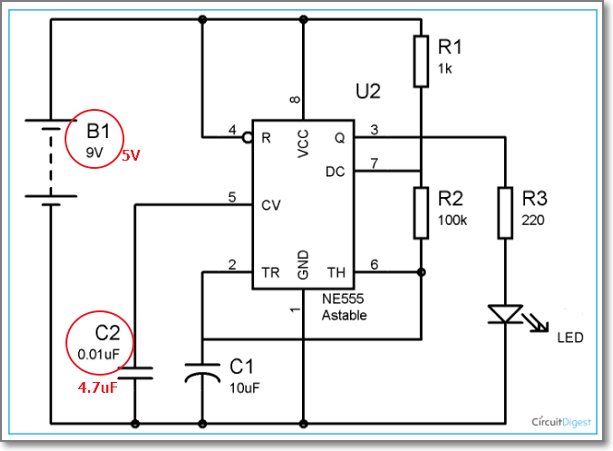
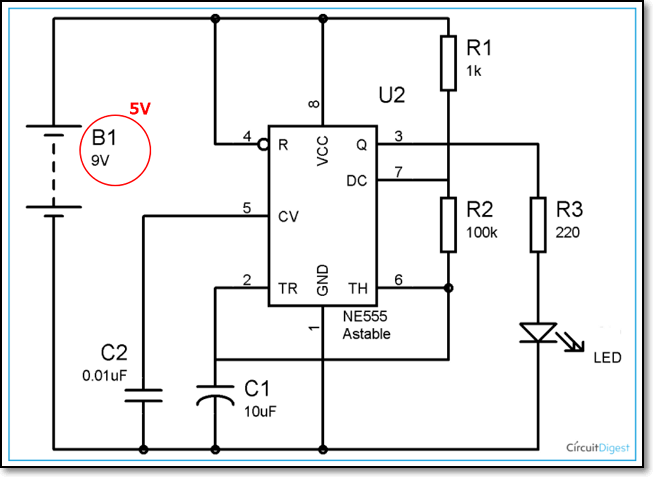
added breadboard simulation

Changed region(s): [[0.0, 0.0, 0.9918, 0.9933], [0.5579, 0.1863, 0.6199, 0.2173]]

diff --git a/Electronics/stepbystep_breadboarding.md b/Electronics/stepbystep_breadboarding.md
@@ -1,0 +1,89 @@
+## Breadboarding the AStable - A Step-by-Step guide
+
+This is a step-by-step guide to connecting and simulating an astable circuit using TinkderCAD.  At the end of the exercise, you should be able to simulate the operations of a Astable Multivibrator using TinkerCAD
+
+**Requirements**
+
+1.  TinkerCAD/AutoDesk Account
+2.  Online [TinkerCAD circuits](https://www.tinkercad.com) program
+
+**Circuit Diagram**
+
+You can read about the operations of the Astable Multivibrator from the article by Circuit Digest : [555 Timer Astable Multivibrator Circuit](https://circuitdigest.com/electronic-circuits/555-timer-astable-multivibrator-circuit-diagram).
+
+The circuit that we are going to wire up is shown below, with the exception that the battery supply is changed from 9V to **5V**.
+
+![555 timer astable multivibrator circuit diagram](images/asElect_03.png)
+
+&nbsp
+
+### Step 1 Breadboard and Power supply lines
+
+1.  In TinkerCAD, select and place the mini-Breadboard
+2.  Insert a Power Supply Unit, setting the voltage to 5V/2A
+3.  Connect the Power lines (5V and GND) to the breadboard.  Use wires to ensure that both rails (top and bottom) have Vcc and Gnd.  This makes your connections easier.
+4.  Use colour wires to help identify the circuits
+    a)  RED for +5V (Vcc)
+    b)  BLACK for 0V (Ground)
+5.  Insert the Integrated Circuit (IC) NE555 and connect the power and ground lines.
+    a)  Pin 1 is identified with a white dot
+    b)  Pin 1 connects to GND
+    c)  Pin 8 connects to Vcc
+    d)  Connect also any other pins that need Vcc or GND e.g. pin 4.
+
+![Step 1 Connect Power Lines](images/asElect_Step01.png)
+
+&nbsp;
+
+### Step 2 Work systematically on each pin of the IC
+
+1.  Connect the Polarized (Electrolytic) Capacitor C1 to pin 2
+2.  A Polarized (Electrolytic) capacitor needs its pins connected as
+    a) positive to +Voltage
+    b) negative to -Voltage (or Ground),br>
+if you reverse the pins, the capacitor may explode (with a loud pop!)
+
+![Step 2 Work systematically from pin to pin](images/asElect_Step02.png)
+
+&nbsp;
+
+### Step 3 Connect the resistors to Pin 2
+
+1.  Finish the connections to pin 2 of the NE555 by connecting the resistors and link to pin 6 and 7 as well.
+2.  The bands on the resistor will tell you the value of the resistor.
+
+! [Step 3 Connect pin 2 tp the resistors and pins 6, 7](images/asElect_Step03.png)
+
+&nbsp;
+
+### Step 4 Connect the LED to pin 3
+
+1.  Connect the current limiting resistor (220 Ohm) and the LED to pin 3.
+2.  The LED has a anode (+ve) and cathode (-ve) leads, check that they are correctly connected.
+
+! [Step 4 Connect pin 3 to the LED](images/asElect_Step04.png)
+
+&nbsp;
+
+### Step 5 Complete the circuit
+
+1.  Connect the ceramic capacitor to pin 5.  You need not worry about which lead to use for ceramic capacitors
+
+! [Step 5 Complete the circuit](images/asElect_Step05.png)
+
+&nbsp;
+
+### Simulate the circuit and run measurements
+
+1.  Perform a last check, then click the "Start Simulation" button.
+2.  If all connections are correct, you should see the LED blinking.
+3.  Use the Oscilloscope module or the Multimeter module to make measurements of the voltages and signals running through the ciruit.
+4.  You can change the values of the Capacitor C1, Resistors R1 and R2 to observe the effects.  Remember to "Stop Simulation" before you make the changes.
+
+! [Step 6 Start Simulation](images/asElect_04.png)
+
+&nbsp;
+
+
+
+Updated **January 2021**

diff --git a/Electronics/as_electronics.md b/Electronics/as_electronics.md
@@ -63,14 +63,16 @@ Do **NOT** attempt to do all parts at once, space them out over the holiday brea
 3.  Wire up a 555 Timer circuit
     - Read the operation of a [Astable 555 Timer](https://circuitdigest.com/electronic-circuits/555-timer-astable-multivibrator-circuit-diagram)<br>
     We will be using this circuit, with the exception that
-        - Capacitor C2, is replaced with 47 uF, and
         - Voltage is 5V
         ![555 Astable Circuit](images/asElect_03.png)<br>
 &nbsp;
-    - Test the circuit using TinkerCAD and observe the waveform by using an oscilloscope.  You should be able to obtain a square wave showing the flashng of the LED on simulation.
+    - Test the circuit using TinkerCAD and observe the waveform by using an oscilloscope.  You should be able to obtain a square wave showing the flashing of the LED on simulation.
     ![555 Astable Circuit on breadboard](images/asElect_04.png)<br>
 &nbsp;
-4.  Try implementing the circuit using an actual breadboard.  You can obtain the components from T1442.
+    - Note:  If you change the value of C1, you can change the rate at which the LED flashes.
+&nbsp;
+4.  Try implementing the circuit using an actual breadboard.  You can obtain the components from T1442.<br>
+If you are stuck, here is a [Step-by-step Guide](stepbystep_breadboarding.md)
 5.  Wire up an actual circuit using Veroboard/Stripboard
     - Read this article: [Soldering 555 timer on stripboard](http://www.bestsoldering.com/how-to-use-veroboard/)<br>
     It shows how to implement a 555 Astable circuit on a veroboard.  Follow the following steps to complete your assignment
